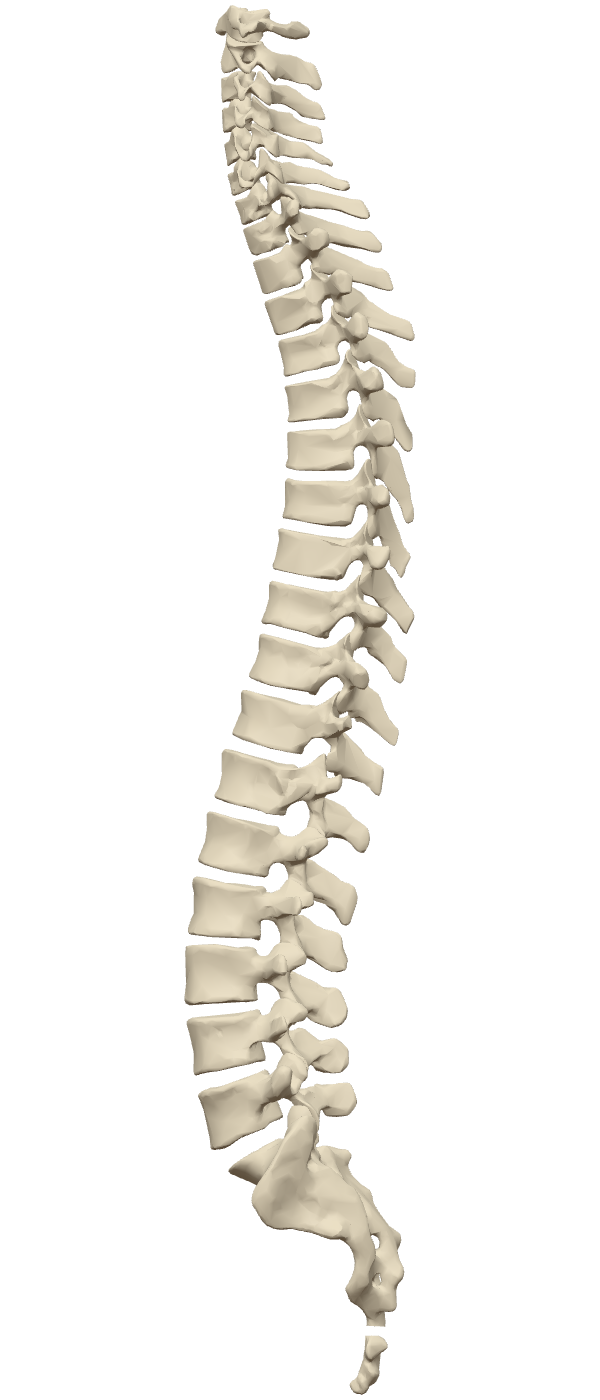
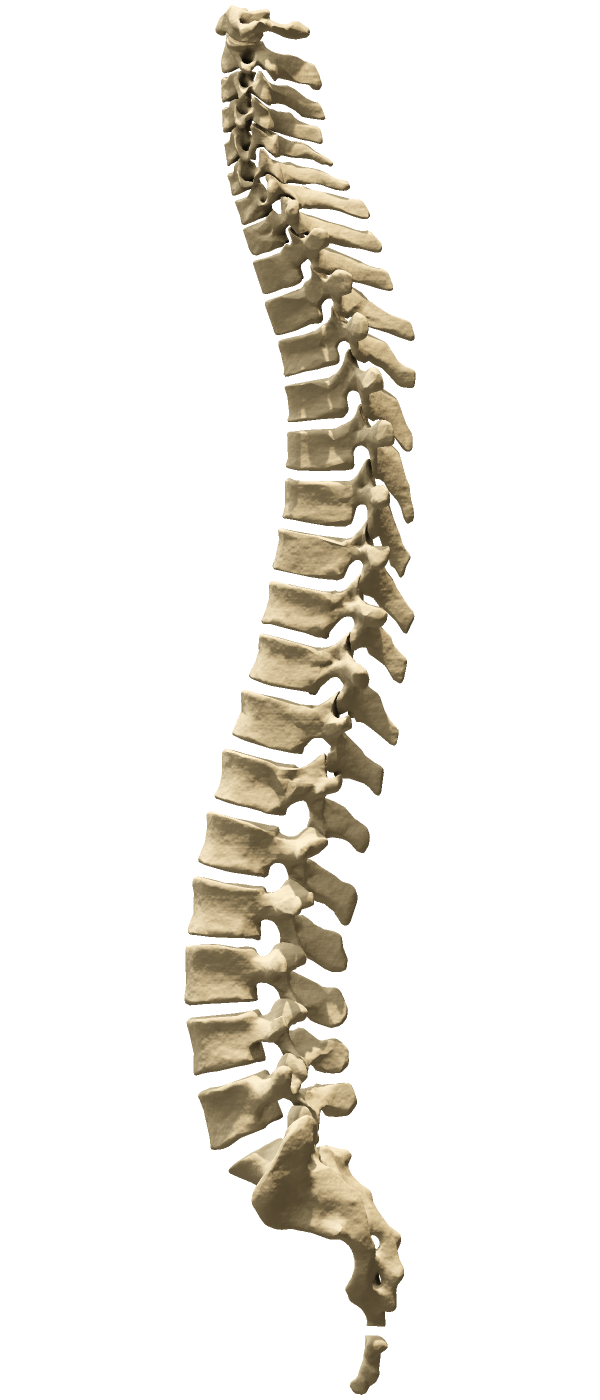
Láminas más realistas: luz de estudio, sombras, oclusión ambiental y textura de hueso y fibras musculares
Claude-Session: https://claude.ai/code/session_016KtvXjKCLzQ5N4XLQxSo14

Changed region(s): [[0.3, 0.0, 0.69, 1.0]]

diff --git a/frontend/scripts/laminas/lamina.js b/frontend/scripts/laminas/lamina.js
@@ -4,6 +4,11 @@
 import * as THREE from "three";
 import { GLTFLoader } from "three/addons/loaders/GLTFLoader.js";
 import { MeshoptDecoder } from "three/addons/libs/meshopt_decoder.module.js";
+import { RoomEnvironment } from "three/addons/environments/RoomEnvironment.js";
+import { EffectComposer } from "three/addons/postprocessing/EffectComposer.js";
+import { RenderPass } from "three/addons/postprocessing/RenderPass.js";
+import { GTAOPass } from "three/addons/postprocessing/GTAOPass.js";
+import { OutputPass } from "three/addons/postprocessing/OutputPass.js";
 
 const loader = new GLTFLoader().setMeshoptDecoder(MeshoptDecoder);
 const load = (f) => new Promise((ok, ko) => loader.load(f, (g) => ok(g.scene), undefined, ko));
@@ -11,22 +16,88 @@ const FILES = { bones: "huesos", muscles: "musculos", organs: "organos", vessels
 
 // Colores de libro: arterias rojas, venas azules, hueso marfil, músculo rojo oscuro…
 function colorOf(layer, name) {
-  if (layer === "bones") return /cartilage|disc|meniscus/i.test(name) ? 0xbfd8e6 : 0xeee3c8;
-  if (layer === "muscles") return /tendon|aponeurosis/i.test(name) ? 0xe8dcc8 : 0xb8473f;
-  if (layer === "nerves") return 0xf2c94c;
+  if (layer === "bones") return /cartilage|disc|meniscus/i.test(name) ? 0xb9cfd9 : 0xd2bf98;
+  if (layer === "muscles") return /tendon|aponeurosis|retinaculum/i.test(name) ? 0xe9e0cf : 0xa63c33;
+  if (layer === "nerves") return 0xf0cf5a;
   if (layer === "vessels") {
-    if (/atrium|ventricle|auricle/i.test(name)) return 0xc0645a;
-    if (/pulmonary (trunk|artery)|bifurcation of pulmonary/i.test(name)) return 0x4a6fd1;
-    if (/pulmonary vein/i.test(name)) return 0xc8463c;
-    if (/vein|vena|sinus/i.test(name)) return 0x3b5bbf;
-    return 0xc8463c;
+    if (/atrium|ventricle|auricle/i.test(name)) return 0xb4584b;
+    if (/pulmonary (trunk|artery)|bifurcation of pulmonary/i.test(name)) return 0x3f64c4;
+    if (/pulmonary vein/i.test(name)) return 0xbf3b32;
+    if (/vein|vena|sinus/i.test(name)) return 0x3553b3;
+    return 0xbf3b32;
   }
-  if (/lung/i.test(name)) return 0xf0b6b0;
-  if (/liver/i.test(name)) return 0x8e3b2f;
-  if (/kidney/i.test(name)) return 0x9c4a3a;
-  if (/stomach|duoden|jejun|ileum|colon|cecum|rectum|esophag/i.test(name)) return 0xe8a2a0;
-  if (/brain|cerebr|cerebell/i.test(name)) return 0xe9c4b8;
+  if (/lung/i.test(name)) return 0xe8a8a2;
+  if (/liver/i.test(name)) return 0x7d3328;
+  if (/gallbladder/i.test(name)) return 0x5f8f4a;
+  if (/kidney/i.test(name)) return 0x8e4434;
+  if (/suprarenal/i.test(name)) return 0xd9a441;
+  if (/pancreas/i.test(name)) return 0xe3b48d;
+  if (/stomach|duoden|jejun|ileum|colon|cecum|appendix|rectum|oesophag|esophag/i.test(name)) return 0xe39a95;
+  if (/trachea|bronch|larynx/i.test(name)) return 0xd9a79a;
+  if (/thyroid/i.test(name)) return 0xb5544a;
+  if (/bladder/i.test(name)) return 0xe5b3a5;
   return 0xd98f80;
+}
+
+// Acabado de cada tejido: el hueso mate y poroso, el músculo con fibras y algo húmedo, los órganos brillantes.
+function finishOf(layer, name) {
+  if (layer === "bones") return { roughness: 0.62, clearcoat: 0.05, scale: 320, strength: 0.18, fibers: 0, tint: 0.1 };
+  if (layer === "muscles" && !/tendon|aponeurosis|retinaculum/i.test(name))
+    return { roughness: 0.48, clearcoat: 0.35, scale: 260, strength: 0.35, fibers: 1, tint: 0.14 };
+  if (layer === "muscles") return { roughness: 0.4, clearcoat: 0.4, scale: 300, strength: 0.12, fibers: 1, tint: 0.06 };
+  if (layer === "vessels") return { roughness: 0.38, clearcoat: 0.55, scale: 140, strength: 0.08, fibers: 0, tint: 0.1 };
+  return { roughness: 0.42, clearcoat: 0.5, scale: 120, strength: 0.07, fibers: 0, tint: 0.12 };
+}
+
+// Relieve y manchas de la superficie con ruido en el espacio (los modelos no tienen coordenadas de textura).
+const NOISE = `
+  varying vec3 vWPos;
+  uniform float uScale; uniform float uStrength; uniform float uFibers; uniform float uTint; uniform vec3 uAxis;
+  float h3(vec3 p) { return fract(sin(dot(p, vec3(127.1, 311.7, 74.7))) * 43758.5453); }
+  float vnoise(vec3 p) {
+    vec3 i = floor(p); vec3 f = fract(p); f = f * f * (3.0 - 2.0 * f);
+    return mix(mix(mix(h3(i), h3(i + vec3(1,0,0)), f.x), mix(h3(i + vec3(0,1,0)), h3(i + vec3(1,1,0)), f.x), f.y),
+               mix(mix(h3(i + vec3(0,0,1)), h3(i + vec3(1,0,1)), f.x), mix(h3(i + vec3(0,1,1)), h3(i + vec3(1,1,1)), f.x), f.y), f.z);
+  }
+  float fbm(vec3 p) { return 0.55 * vnoise(p) + 0.3 * vnoise(p * 2.03) + 0.15 * vnoise(p * 4.11); }
+  vec3 detailP(vec3 w) {
+    // Fibras: el ruido se estira a lo largo del eje del músculo.
+    vec3 q = w * uScale;
+    float along = dot(q, uAxis);
+    return mix(q, q - uAxis * along * 0.88, uFibers);
+  }
+`;
+function withDetail(material, f, axis) {
+  material.onBeforeCompile = (shader) => {
+    Object.assign(shader.uniforms, {
+      uScale: { value: f.scale },
+      uStrength: { value: f.strength },
+      uFibers: { value: f.fibers },
+      uTint: { value: f.tint },
+      uAxis: { value: new THREE.Vector3(...axis).normalize() },
+    });
+    shader.vertexShader = shader.vertexShader
+      .replace("#include <common>", "#include <common>\nvarying vec3 vWPos;")
+      .replace("#include <fog_vertex>", "#include <fog_vertex>\nvWPos = (modelMatrix * vec4(transformed, 1.0)).xyz;");
+    shader.fragmentShader = shader.fragmentShader
+      .replace("#include <common>", "#include <common>\n" + NOISE)
+      .replace(
+        "#include <color_fragment>",
+        "#include <color_fragment>\ndiffuseColor.rgb *= 1.0 - uTint + 2.0 * uTint * fbm(detailP(vWPos) * 0.35);",
+      )
+      .replace(
+        "#include <normal_fragment_maps>",
+        `#include <normal_fragment_maps>
+        {
+          vec3 p = detailP(vWPos); float e = 0.15;
+          vec3 g = vec3(fbm(p + vec3(e,0,0)) - fbm(p - vec3(e,0,0)), fbm(p + vec3(0,e,0)) - fbm(p - vec3(0,e,0)),
+                        fbm(p + vec3(0,0,e)) - fbm(p - vec3(0,0,e))) / (2.0 * e);
+          vec3 gv = (viewMatrix * vec4(g, 0.0)).xyz;
+          normal = normalize(normal - uStrength * (gv - dot(gv, normal) * normal));
+        }`,
+      );
+  };
+  return material;
 }
 
 window.run = async (plates) => {
@@ -43,7 +114,7 @@ window.run = async (plates) => {
       meshes.push({ mesh: o, layer, name: n?.userData.n ?? o.name });
     });
   }
-  const renderer = new THREE.WebGLRenderer({ antialias: true, preserveDrawingBuffer: true, alpha: true });
+  const renderer = new THREE.WebGLRenderer({ antialias: true, preserveDrawingBuffer: true });
   // Para saber qué pieza hay en cada punto: sin suavizado de bordes ni conversión de color (colores exactos).
   const idRenderer = new THREE.WebGLRenderer({ antialias: false, preserveDrawingBuffer: true });
   idRenderer.outputColorSpace = THREE.LinearSRGBColorSpace;
@@ -83,25 +154,83 @@ window.run = async (plates) => {
     cam.up.set(...(p.up ?? [0, 1, 0]));
     cam.lookAt(center);
     cam.updateMatrixWorld();
-    renderer.setSize(W, H);
     renderer.setPixelRatio(1);
     idRenderer.setSize(W, H);
     idRenderer.setPixelRatio(1);
 
-    // 1) Dibujo en color.
-    scene.add(new THREE.HemisphereLight(0xffffff, 0x887766, 1.4));
-    const sun = new THREE.DirectionalLight(0xffffff, 1.8);
-    sun.position.copy(dir).add(new THREE.Vector3(0.4, 0.8, 0.2)).multiplyScalar(10);
-    scene.add(sun);
+    // 1) Dibujo en color, con luz de estudio, sombras y oclusión ambiental, a doble resolución.
+    const SS = 2;
+    cam.near = 10 - radius * 2;
+    cam.far = 10 + radius * 2;
+    cam.updateProjectionMatrix();
+    renderer.setSize(W * SS, H * SS);
+    renderer.toneMapping = THREE.ACESFilmicToneMapping;
+    renderer.toneMappingExposure = 0.95;
+    renderer.shadowMap.enabled = true;
+    renderer.shadowMap.type = THREE.PCFSoftShadowMap;
+    const pmrem = new THREE.PMREMGenerator(renderer);
+    scene.environment = pmrem.fromScene(new RoomEnvironment(), 0.04).texture;
+    scene.environmentIntensity = 0.32;
+    scene.background = new THREE.Color(0xffffff);
+    const key = new THREE.DirectionalLight(0xfff4ea, 2.8);
+    key.position.copy(center).add(dir.clone().multiplyScalar(radius * 3)).add(new THREE.Vector3(-radius * 2.6, radius * 2.4, 0));
+    key.target.position.copy(center);
+    key.castShadow = true;
+    key.shadow.mapSize.set(4096, 4096);
+    Object.assign(key.shadow.camera, { left: -radius * 1.6, right: radius * 1.6, top: radius * 1.6, bottom: -radius * 1.6, near: 0.001, far: radius * 8 });
+    key.shadow.bias = -0.0004;
+    key.shadow.normalBias = radius * 0.004;
+    key.shadow.radius = 4;
+    scene.add(key, key.target);
+    const fill = new THREE.DirectionalLight(0xe8f0ff, 0.35);
+    fill.position.copy(center).add(new THREE.Vector3(radius * 2, -radius * 0.5, radius * 2));
+    scene.add(fill);
     const mats = new Map();
     for (const c of clones) {
       const col = colorOf(c.layer, c.name);
-      if (!mats.has(col)) mats.set(col, new THREE.MeshStandardMaterial({ color: col, roughness: 0.55, metalness: 0 }));
-      c.clone.material = mats.get(col);
+      const f = finishOf(c.layer, c.name);
+      const k = `${col}-${c.layer}-${f.scale}`;
+      if (!mats.has(k))
+        mats.set(
+          k,
+          withDetail(
+            new THREE.MeshPhysicalMaterial({ color: col, roughness: f.roughness, clearcoat: f.clearcoat, clearcoatRoughness: 0.35, metalness: 0 }),
+            f,
+            p.fiberAxis ?? [0, 1, 0],
+          ),
+        );
+      c.clone.material = mats.get(k);
+      c.clone.castShadow = true;
+      c.clone.receiveShadow = true;
     }
-    renderer.setClearColor(0xffffff, 0);
-    renderer.render(scene, cam);
-    const image = renderer.domElement.toDataURL("image/png");
+    const composer = new EffectComposer(renderer);
+    composer.setSize(W * SS, H * SS);
+    composer.addPass(new RenderPass(scene, cam));
+    const ao = new GTAOPass(scene, cam, W * SS, H * SS);
+    ao.updateGtaoMaterial({ radius: radius * 0.06, distanceExponent: 1.2, thickness: radius * 0.04, scale: 1.7, samples: 16 });
+    ao.updatePdMaterial({ lumaPhi: 10, depthPhi: 2, normalPhi: 3, radius: 6, rings: 2, samples: 16 });
+    ao.blendIntensity = 1.0;
+    composer.addPass(ao);
+    composer.addPass(new OutputPass());
+    composer.render();
+    // Reducir a su tamaño (bordes suaves).
+    const small = document.createElement("canvas");
+    small.width = W;
+    small.height = H;
+    const sctx = small.getContext("2d");
+    sctx.imageSmoothingQuality = "high";
+    sctx.drawImage(renderer.domElement, 0, 0, W, H);
+    // El ajuste de tono deja el fondo gris claro: se aclara todo por igual hasta que el fondo sea blanco.
+    const pix = sctx.getImageData(0, 0, W, H);
+    const bg = [pix.data[0], pix.data[1], pix.data[2]];
+    for (let i = 0; i < pix.data.length; i += 4)
+      for (let c = 0; c < 3; c++) pix.data[i + c] = 255 * Math.min(1, pix.data[i + c] / Math.max(1, bg[c])) ** 1.25;
+    sctx.putImageData(pix, 0, 0);
+    const image = small.toDataURL("image/png");
+    composer.dispose();
+    scene.remove(key, key.target, fill);
+    scene.environment = null;
+    scene.background = null;
 
     // 2) Qué pieza se ve en cada punto (un color por estructura con nombre propio).
     const names = [...new Set(clones.filter((c) => !lab || lab.test(c.name)).map((c) => c.name))];
